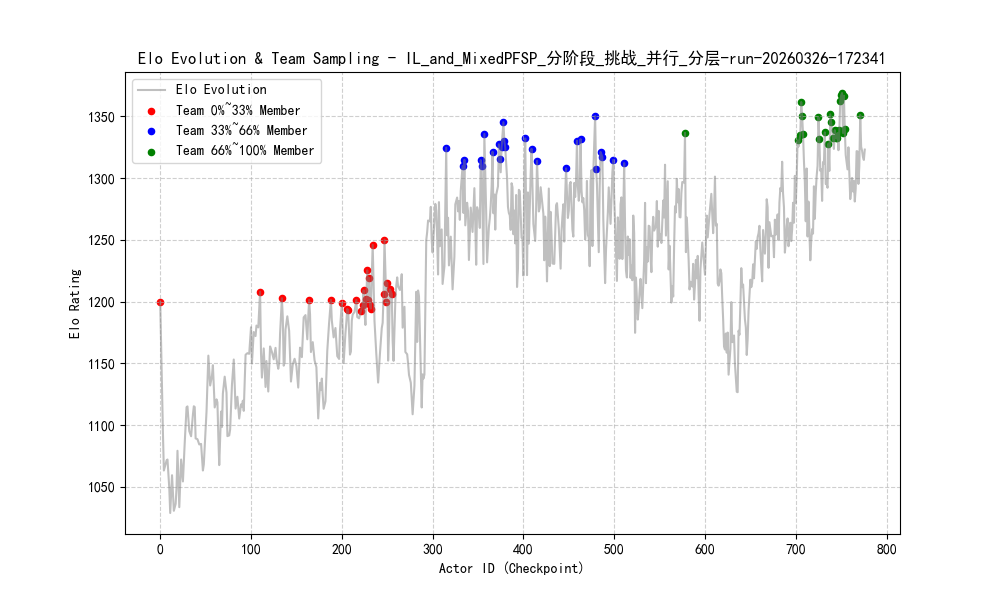
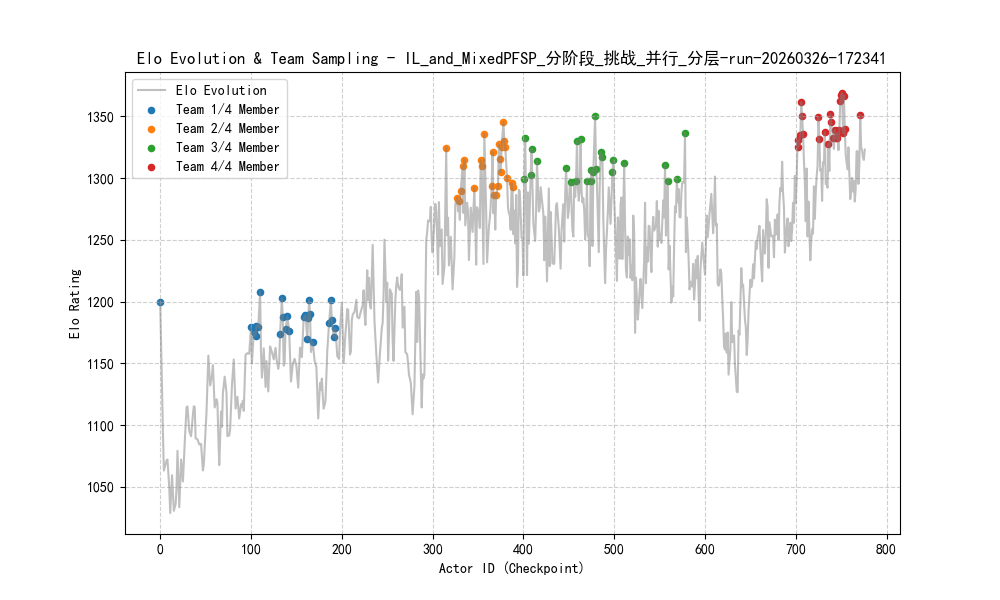
自博弈矩阵分4个阶段

diff --git a/结果展示/历史切片博弈矩阵 并行 原目录.py b/结果展示/历史切片博弈矩阵 并行 原目录.py
@@ -143,15 +143,6 @@ def worker_process_battle(args_pack):
     # 4. 调用原始函数
     return run_battle(env, blue_wrapper, red_wrapper, device)
 
-# --- 主程序 ---
-if __name__ == "__main__":
-    name = 'IL_and_MixedPFSP_分阶段_挑战_并行_分层-run-20260326-172341'
-
-
-    device = torch.device("cuda" if torch.cuda.is_available() else "cpu")
-    
-    log_dir = os.path.join(project_root, "logs","combat", name)
-    
 def plot_elo_sampling(log_dir, teams, team_labels, name):
     """封装 Elo 采样绘图逻辑，采用 Agg 后端防止干扰主进程 GUI"""
     try:
@@ -167,17 +158,24 @@ def plot_elo_sampling(log_dir, teams, team_labels, name):
             match = re.search(r'^actor_rein(\d+)$', k)
             if match:
                 all_plot_data.append([int(match.group(1)), v])
+        
+        if not all_plot_data:
+            print("警告: 未找到任何 Elo 绘图数据。")
+            return
+
         all_plot_data.sort(key=lambda x: x[0])
         all_plot_data = np.array(all_plot_data)
 
         plt.figure(figsize=(10, 6))
         plt.plot(all_plot_data[:, 0], all_plot_data[:, 1], color='gray', alpha=0.5, label='Elo Evolution')
         
-        colors = ['red', 'blue', 'green']
+        # 使用 colormap 生成动态颜色，防止 team 数量超过颜色列表长度
+        cmap = plt.get_cmap('tab10')
         for idx, team in enumerate(teams):
+            if not team: continue
             team_ids = np.array([a['id'] for a in team])
             team_elos = np.array([a['elo'] for a in team])
-            plt.scatter(team_ids, team_elos, color=colors[idx], label=f'Team {team_labels[idx]} Member', s=20)
+            plt.scatter(team_ids, team_elos, color=cmap(idx % 10), label=f'Team {team_labels[idx]} Member', s=20)
         
         plt.title(f"Elo Evolution & Team Sampling - {name}")
         plt.xlabel("Actor ID (Checkpoint)")
@@ -201,10 +199,10 @@ if __name__ == "__main__":
     log_dir = os.path.join(project_root, "logs","combat", name)
     
     # 1. 准备队伍
-    team_labels = ['0%~33%', '33%~66%', '66%~100%']
+    team_labels = ['1/4', '2/4', '3/4', '4/4']
     teams = get_agent_teams(log_dir, num_teams=len(team_labels))
 
-    # --- [修改] 调用预览绘图 ---
+    # --- 调用预览绘图 ---
     for idx, team in enumerate(teams):
         print(f"Team {team_labels[idx]} IDs: {[a['id'] for a in team]}")
     plot_elo_sampling(log_dir, teams, team_labels, name)
